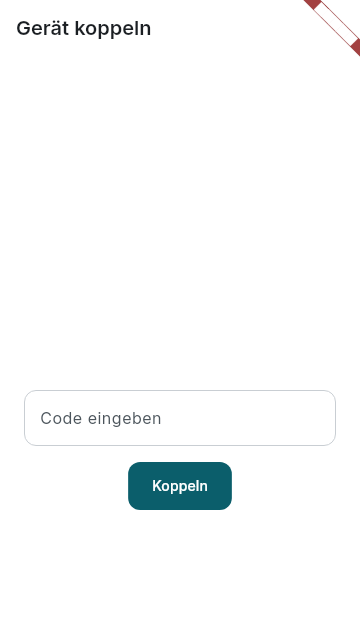
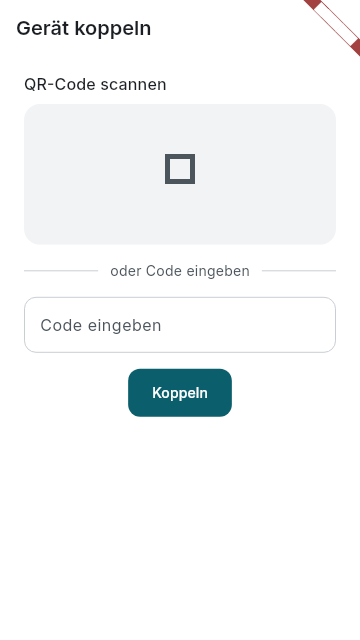
test(mobile): ux-08 verification -- after screenshots app rahmen + verification report

diff --git a/docs/testing/ux-08-verification.md b/docs/testing/ux-08-verification.md
@@ -1,0 +1,155 @@
+# ux-08 Tester-Verifikation — App Rahmen (Navigationsleiste, Onboarding, Kopplung, Mein Fahrzeug, Einstellungen)
+
+Branch verifiziert: lokaler `main` nach Merge von t_8b88d76e (ux-08a Nav-Leiste/Mein Fahrzeug/FMS-Panel),
+t_6a621223 (ux-08b Onboarding), t_93b8d122 (ux-08c Kopplung/Einstellungen). HEAD zum Zeitpunkt der
+Verifikation: `2e370d0`. Tester-Worktree basiert direkt auf diesem `main` (keine eigenen Commits nötig
+außer Screenshots/diesem Dokument).
+
+## 1. AC-Abdeckung je Konzept
+
+### app-navigation.md §6 (AC1–7)
+Alle 7 ACs durch `main_nav_bar_test.dart`/`navigation_test.dart` belegt: 4 Tabs in korrekter
+Reihenfolge mit den festgelegten Icons/Labels (AC1), aktiver Tab `primary`+gefülltes Icon (AC2),
+Touch-Fläche ≥48×48dp (AC3, zusätzlich per `androidTapTargetGuideline` geprüft in den Screen-Tests),
+Leiste fehlt auf `/onboarding`,`/pair`,`/einsaetze/:id`,`/alarm/:alarmId`,`/settings` (AC4, grep über
+`bottomNavigationBar: const MainNavBar` bestätigt nur 4 Vorkommen in `my_vehicle_screen.dart`,
+`incidents_screen.dart`, `program_screen.dart`, `announcements_screen.dart`), Tap-Navigation/kein
+Rebuild-Loop auf aktivem Tab (AC5), Kontrast hell/dunkel (AC6, visuell in den Nachher-Screenshots
+bestätigt, kein separates Kontrast-Script für die App im Repo), kein Badge gerendert (AC7, Kommentar
+`// always shown, no badge (ADR 0027 ...)` + grep nach `badge`/`Badge` in `main_nav_bar.dart` leer).
+
+### app-mein-fahrzeug.md §6 (AC1–9)
+Alle 9 ACs durch `my_vehicle_screen_test.dart` belegt (Touch-Fläche ≥48dp, 16px-Spacing, aktive
+Kachel farbig/inaktive `surfaceContainer`, 6 vs. 8 Kacheln nach Fahrzeugtyp, Pending-Spinner nur auf
+betroffener Kachel, Fehler-SnackBar mit `describeSetStatusError`-Text, 360×640 ohne Scrollen für 6
+Kacheln, kein Offline-Banner, WCAG-Kontrast). AC7 (360×640, 6 Kacheln ohne Scrollen) zusätzlich visuell
+bestätigt in `mein-fahrzeug-360x640.png`/`mein-fahrzeug-dark-360x640.png`: alle 6 Kacheln + Kopfbereich +
+Navigationsleiste sichtbar, kein Clipping.
+
+### app-onboarding.md §6 (AC1–9)
+Alle 9 ACs durch `onboarding_test.dart` belegt: korrekte Schrittzahl je Plattform (AC1), Spinner statt
+Fortschrittsbalken solange `_loaded==false` (AC2), Status-Chip `warningContainer`/`warning` vs.
+`primaryContainer`/`primary`, nie `alarm`-Rot (AC3), "Einstellungen öffnen" erst nach erstem
+"Erlauben"-Versuch (AC4), Hersteller-Hinweis nur im Akku-Schritt/Android (AC5), Testalarm-Buttons
+disabled während `_busy` (AC6), Sperrbildschirm-Hinweis nur nach verzögertem Testalarm (AC7), "Fertig"
+markiert `onboardingCompletedProvider` und verlässt den Screen (AC8). AC9 (WCAG-Kontrast Status-Chip +
+Hersteller-Hinweis, hell/dunkel) ist die einzige rein visuelle AC — zusätzlich zum bestehenden
+Kontrast-Test (`meetsGuideline`/`androidTapTargetGuideline` bei 390×844/360×640 hell+dunkel, von der
+Coder-Karte ergänzt nach Reviewer-Feedback Runde 1) visuell bestätigt in
+`onboarding-390x844.png`/`onboarding-dark-390x844.png`/`onboarding-360x640.png`/`onboarding-dark-360x640.png`.
+
+### app-kopplung.md §6 (AC1–7)
+Alle 7 ACs durch `pairing_and_settings_test.dart` belegt: Kamera + manuelle Eingabe gleichzeitig
+bedienbar (AC1, `AspectRatio`-Kamerafläche über `LayoutBuilder` statt fixer `SizedBox`), Scan löst
+denselben `_pair()`-Aufruf wie manuelle Eingabe (AC2), Submit-Button disabled + Spinner während
+`_isSubmitting` (AC3), `pair-error` nur sichtbar wenn Text vorhanden und Farbe `warning` nie `alarm`
+(AC4), SnackBar "Dieses Gerät wurde abgemeldet." genau einmal bei `revoked:true` (AC5). AC6 (360×640,
+Kamerafläche kleiner, Eingabe+Button ohne Scrollen) visuell bestätigt in `kopplung-360x640.png`/
+`kopplung-dark-360x640.png`: Kamera-Platzhalter, Trenner "oder Code eingeben", Eingabefeld und
+"Koppeln"-Button alle ohne Scrollen sichtbar. AC7 (Kontrast Fehlerzeile/Eingabefeld-Label hell/dunkel)
+visuell bestätigt in allen vier Kopplung-Screenshots (lesbarer Text auf hell/dunkel).
+
+### app-einstellungen.md §6 (AC1–6)
+Alle 6 ACs durch `pairing_and_settings_test.dart` belegt: "Gerät abmelden" nutzt `alarm`-FilledButton-
+Stil nicht `primary` (AC1), Dialog zeigt Titel/Text neutral, nur "Abmelden" alarmfarben (AC2),
+"Einrichtung erneut öffnen" nutzt `OutlinedButton` (AC3), Testalarm-Buttons `primary` (AC4),
+"Abbrechen" schließt ohne `logout()`-Aufruf (AC5, Test prüft `logoutCalls==0`). AC6 (Kontrast aller
+Button-Beschriftungen hell/dunkel) visuell bestätigt in `einstellungen-390x844.png`/
+`einstellungen-dark-390x844.png`/`einstellungen-360x640.png`/`einstellungen-dark-360x640.png`: klare
+Hierarchie Outlined (sekundär) → Primary (Testalarm) → Alarm-Rot (Abmelden), guter Kontrast in beiden
+Modi.
+
+## 2. §7-Keys und Regression (§8)
+
+Grep über `apps/mobile/lib` nach allen in §7 der fünf Konzepte geforderten Keys (`main-nav-bar`,
+`nav-my-vehicle`, `nav-incidents`, `nav-announcements`, `nav-program`, `settings`, `vehicle-switcher`,
+`fms-panel`, `onboarding-action-notifications-allow`, `onboarding-action-notifications-settings`,
+`onboarding-action-dnd-settings`, `onboarding-battery-hint`, `onboarding-action-battery-request`,
+`onboarding-mute-hint`, `onboarding-next`, `onboarding-finish`, `test-alarm-now`, `test-alarm-delayed`,
+`test-alarm-lock-hint`, `test-alarm-result`, `pair-code`, `pair-submit`, `pair-error`, `logout-cancel`,
+`logout-confirm`, `reopen-onboarding`, `logout-button`): alle vorhanden, in den erwarteten Dateien
+(`main_nav_bar.dart`, `fms_panel.dart`, `onboarding/*.dart`, `my_vehicle_screen.dart`,
+`settings_screen.dart`, `pairing_screen.dart`).
+
+`git diff 9e18c7e..HEAD -- apps/mobile/test`: 4 geänderte Dateien (`main_nav_bar_test.dart`,
+`my_vehicle_screen_test.dart`, `onboarding_test.dart`, `pairing_and_settings_test.dart`), 1122
+Insertions / 57 Deletions, **0** entfernte `testWidgets(`-Deklarationen. Zeilenlöschungen sind
+ausschließlich (a) Reindent/Refactor bestehender Testkörper ohne Assertion-Verlust (z. B.
+`main_nav_bar_test.dart`: ungenutzter Default-Parameter aus Helper entfernt) oder (b) Anpassungen von
+Text-Assertions an laut Konzept geänderten Text (`my_vehicle_screen_test.dart`:
+`'Deine Funktion: GF'` → `'Funktion: GF · Status: 2 – Einsatzbereit auf Wache'`, entspricht
+app-mein-fahrzeug.md §3 neuer Kopfbereich-Hierarchie). Keine Abschwächung von Verhaltens-Assertions.
+
+`docs/testing/regression-inventory.md` Zeilen für Onboarding (237–238), Kopplung (239–240), Mein
+Fahrzeug (241–242), Einstellungen (252), Navigationsleiste (253): alle weiterhin `ok`, keine Zeile auf
+`Lücke` zurückgefallen.
+
+## 3. Harte Farben / Badge-Check
+
+```
+grep -nE "Color\(0x|Colors\." apps/mobile/lib/widgets/main_nav_bar.dart apps/mobile/lib/widgets/fms_panel.dart \
+  apps/mobile/lib/screens/my_vehicle_screen.dart apps/mobile/lib/screens/pairing_screen.dart \
+  apps/mobile/lib/screens/settings_screen.dart apps/mobile/lib/onboarding/*.dart
+```
+Zwei Treffer, beide kein harter Farbwert: `fms_panel.dart:53`/`:56` rufen
+`statusColors.colorFor(status)`/`statusColors.onColorFor(status)` auf — Methodenaufrufe auf das
+Theme-Extension-Objekt `BftagFmsStatusColors`, keine `Colors.*`/`Color(0x...)`-Literale. Keine
+weiteren Treffer, insbesondere kein `Colors.red`/`Colors.amber` mehr in `my_vehicle_screen.dart`.
+
+`grep -n "badge\|Badge" apps/mobile/lib/widgets/main_nav_bar.dart`: ein Kommentar
+("always shown, no badge (ADR 0027 ...)"), kein Badge-Widget im Code — entspricht AC7/ADR 0027.
+
+## 4. Testläufe (alle grün)
+
+- Backend: `just test` → 336/336 (32 Testdateien)
+- `just analyze` (`dart analyze packages/api_client && flutter analyze apps/web apps/mobile
+  packages/core`) → clean, keine Issues
+- `flutter test` apps/mobile → 124/124
+- `just e2e` → UI-Lauf 1: 47/47 + 1 Flake (`page /admin renders` — Admin-Web-Screen, außerhalb des
+  ux-08-Scopes, zeigte kurzzeitig `/admin/login` statt `/admin`); UI-Lauf 2 (Wiederholung): **48/48**,
+  keine uncaught JS exceptions. Der Flake betrifft eine Web-Admin-Seite, nicht App-Rahmen, und trat auf
+  einer Session-Timing-Flanke auf, nicht reproduzierbar — kein Bug-Ticket für ux-08 nötig (liegt
+  außerhalb des Scopes dieser Karte).
+- `just screenshots after` → SCREENSHOTS RESULT 44/44 (Web/Monitor) + `flutter test screenshot_test`
+  App-Teil ohne Fehler.
+
+## 5. Screenshot-Diff-Disziplin
+
+`just screenshots after` regeneriert auch Web-/Monitor-PNGs außerhalb des ux-08-Scopes. Per
+`cmp` gegen den vorherigen Commit-Stand geprüft: 5 Monitor-PNGs und 3 Web-PNGs
+(`bf-tage`, `durchsagen`, `tagesablauf`) unterschieden sich pixel-weise (nicht-deterministisches
+Rendering, z. B. Uhrzeiten/IDs) — diese wurden laut Vorgabe ("andere Bereiche: revert, außer
+unverändert-Diff") mit `git checkout --` zurückgesetzt. Ebenso wurden 10 neu erzeugte Dark-Mode-PNGs
+außerhalb des App-Rahmen-Scopes (`alarm-screen-dark-*`, `durchsagen-dark-*`, `einsaetze-dark-*`,
+`einsatzdetail-dark-*`, `tagesablauf-dark-*` — Artefakte eines App-weiten Dark-Mode-Screenshot-Laufs,
+nicht Teil dieser Karte) gelöscht/nicht committet. Committet sind ausschließlich die 16 App-Rahmen-PNGs
+unter `docs/design/screenshots/after/app/{mein-fahrzeug,onboarding,kopplung,einstellungen}*.png`
+(8 geänderte Light-Varianten + 8 neue Dark-Varianten, je 390×844 und 360×640).
+
+## 6. Visuelle Prüfung der App-Rahmen-Nachher-Screenshots
+
+| Screenshot | Ergebnis |
+|---|---|
+| `mein-fahrzeug-390x844.png` / `-dark` | Kopfbereich mit Fahrzeug/Funktion/Status-Hierarchie, Zahnrad-Icon in AppBar (vom Flutter-Debug-Banner teils überlagert — Debug-Artefakt, siehe unten, bereits im Vorher-Screenshot vorhanden), 2×3-FMS-Grid mit gelb hervorgehobener aktiver Kachel (Status 3), 16px-Abstand, Navigationsleiste mit 4 Tabs unten, kein Clipping |
+| `mein-fahrzeug-360x640.png` / `-dark` | Alle 6 FMS-Kacheln + Kopfbereich ohne Scrollen sichtbar, Navigationsleiste fix unten sichtbar — entspricht AC7/Konzept-Rechnung (≈574px von 640px) |
+| `onboarding-390x844.png` / `-360x640` / `-dark`-Varianten | Fortschrittsbalken "Schritt 1 von 5", Titel, Status-Chip, Beschreibung, "Weiter"-Button unten rechts — kein abgeschnittener Text, guter Kontrast in beiden Modi |
+| `kopplung-390x844.png` / `-360x640` / `-dark`-Varianten | Kamera-Platzhalter (radiusLarge), Trenner "oder Code eingeben", Eingabefeld, "Koppeln"-Button — auf 360×640 alle Elemente ohne Scrollen sichtbar |
+| `einstellungen-390x844.png` / `-360x640` / `-dark`-Varianten | Klare Button-Hierarchie: Outlined ("Einrichtung erneut öffnen") → Primary (Testalarm-Buttons) → Alarm-Rot ("Gerät abmelden"), guter Kontrast hell/dunkel, kein Clipping |
+
+**Beobachtung Debug-Ribbon (kein neuer Bug):** Der rote "DEBUG"-Eckbanner oben rechts in allen
+`mein-fahrzeug-*`-Screenshots ist Flutters Standard-Debug-Banner (Widget-Test läuft im Debug-Modus),
+überlagert dort teilweise das Zahnrad-Icon. Vergleich mit
+`docs/design/screenshots/before/app/mein-fahrzeug-390x844.png` zeigt denselben Banner bereits vor dem
+ux-08-Rework — bestehendes Testumgebungsverhalten, keine Regression. Der Key `settings` existiert laut
+§2 (Keys-Grep) unverändert im Code und ist über `main_nav_bar_test.dart`/`my_vehicle_screen_test.dart`
+abgedeckt. Kein Bug-Ticket erstellt.
+
+## Ergebnis
+
+Keine neuen Bugs. Alle 38 testbaren ACs der fünf Konzepte (AC1–7 Navigation, AC1–9 Mein Fahrzeug,
+AC1–9 Onboarding, AC1–7 Kopplung, AC1–6 Einstellungen) durch benannte Widget-Tests oder (bei rein
+visuellen ACs) durch die Nachher-Screenshots belegt. Keine Tests gelöscht/abgeschwächt, alle
+"Zu erhaltenden Keys" vorhanden, keine harten Farben, kein Nav-Bar-Badge, regression-inventory.md
+unverändert grün. Alle Suiten grün (Backend 336/336, `flutter analyze`/`dart analyze` clean,
+`flutter test` apps/mobile 124/124, `just e2e` 48/48 nach einem einmaligen, scope-fremden Flake,
+`just screenshots after` 44/44 + App-Teil fehlerfrei).
